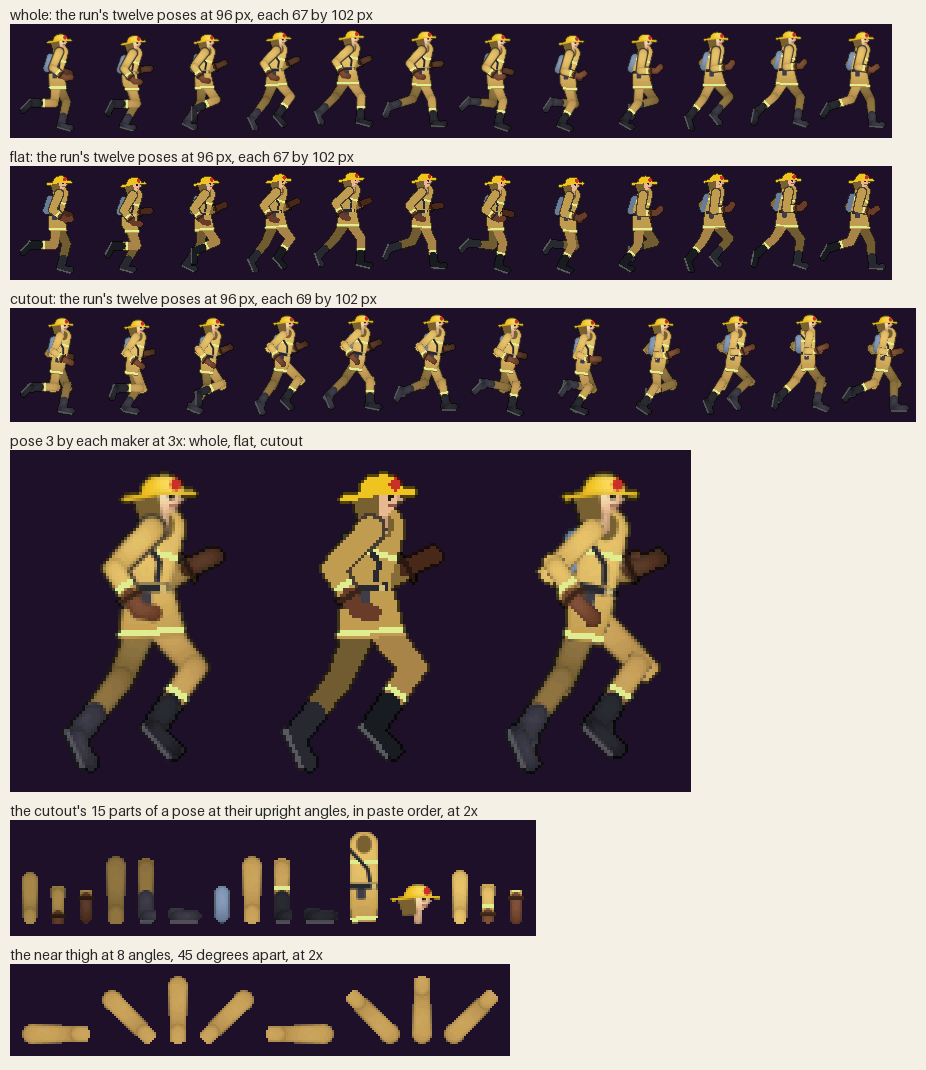
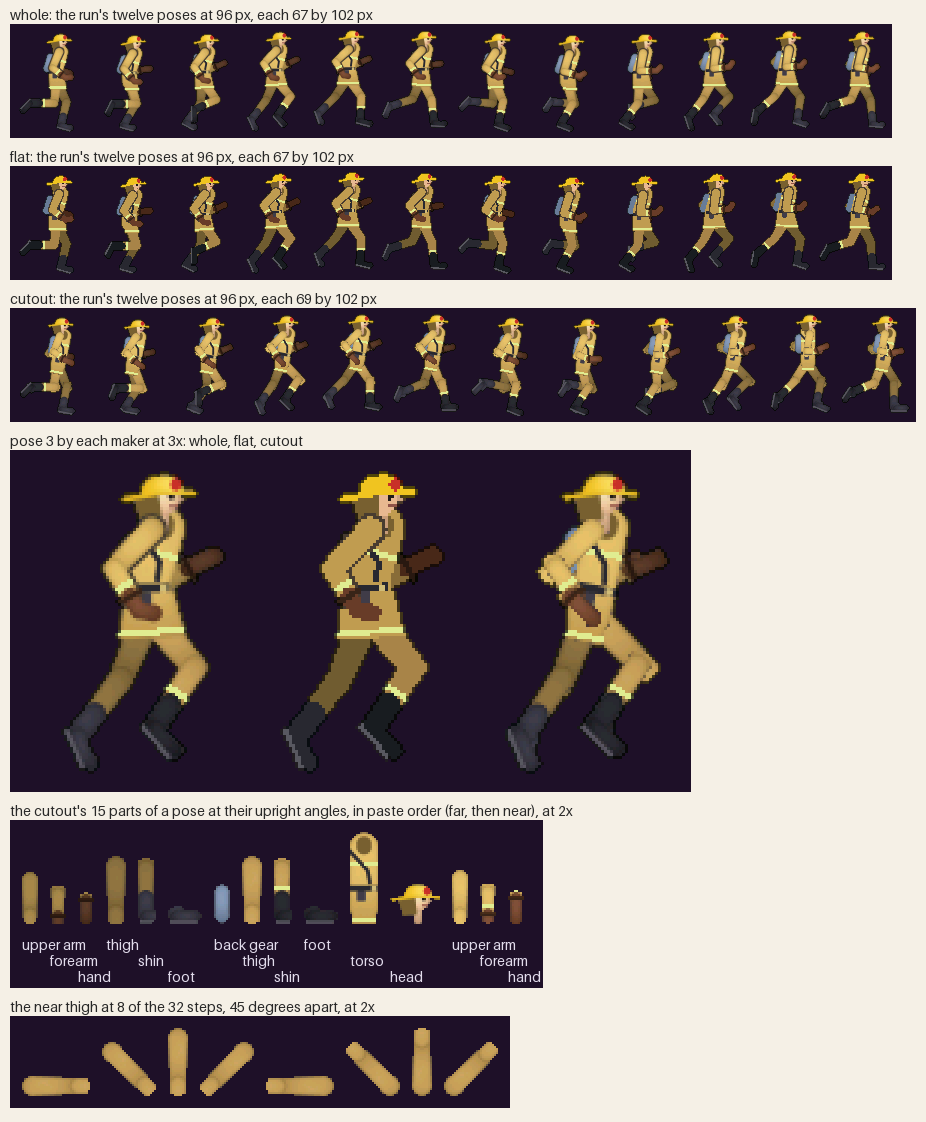
P904: the makers' sheet and clip written again: the kinds' names under the parts, which the strip widens to hold, the makers' names in the clip, and the atlas from the bone lengths

Changed region(s): [[0.0, 0.0, 0.9978, 0.9561], [0.3024, 0.9561, 0.3629, 0.9869], [0.0302, 0.9561, 0.0907, 0.9869]]

diff --git a/art/makers.py b/art/makers.py
@@ -323,9 +323,11 @@ MAKERS = {"whole": DetailedFigure, "flat": FlatFigure, "cutout": CutoutFigure}  
 
 def named(strip, xs, names):
     """The strip with each name under its picture, x px from the strip's left, on one of three lines in turn so that
-    two long names side by side do not meet: light ink on the street's dark, as on_dark's strip."""
+    two long names side by side do not meet: light ink on the street's dark, as on_dark's strip, which is widened
+    when the last name needs it."""
     font = ImageFont.load_default(size=14)
-    out = Image.new("RGB", (strip.width, strip.height + 3 * NAME_H + 4), DARK)
+    width = max([strip.width] + [x + math.ceil(font.getlength(name)) + 2 for x, name in zip(xs, names)])
+    out = Image.new("RGB", (width, strip.height + 3 * NAME_H + 4), DARK)
     out.paste(strip, (0, 0))
     draw = ImageDraw.Draw(out)
     for k, (x, name) in enumerate(zip(xs, names)):
